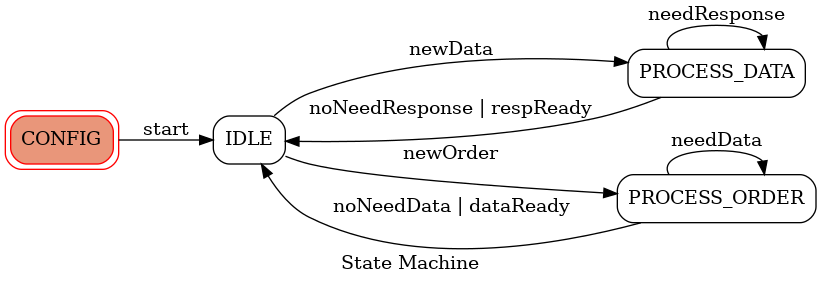
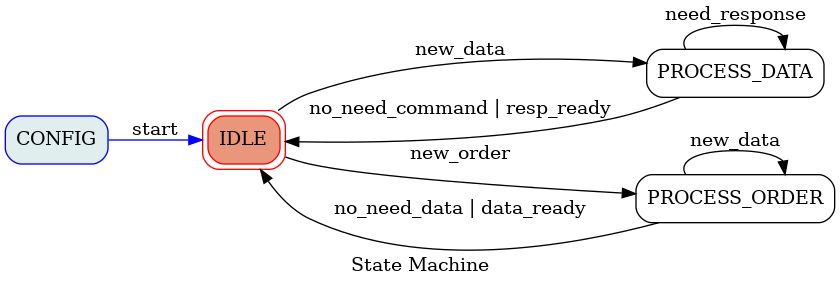
Marcos: changed the transition's structure in control_flow.

diff --git a/gateway/fsm/lsel_mqttclient.py b/gateway/fsm/lsel_mqttclient.py
@@ -1,0 +1,180 @@
+import paho.mqtt.client as mqtt
+import json
+import sys
+import time
+
+
+class mqtt_client(object):
+    """[Class for constructor and broker address and gateway name getters]
+
+    Args:
+        object ([mqttclient]): [object for publisher and subscriber's instantiation]
+    """
+    def __init__(self, broker_addr, gw_name):
+        self.broker_addr=broker_addr
+        self.gw_name=gw_name
+
+    def get_broker_addr(self):
+        return str(self.broker_addr)
+    
+    def get_gw_name(self):
+        return str(self.gw_name)
+    
+
+class mqtt_publisher(mqtt_client):
+    """[mqtt-client sub-class for publishing messages to a specific topic]
+
+    Args:
+        mqtt_publisher ([mqtt_client]): [object that handles message publications]
+    """
+    def __init__(self, broker_addr, gw_name,client_id=None):
+        super().__init__(broker_addr, gw_name)
+        if client_id is None:
+                print("The argument you passed as client_id is not valid. Try again!")
+                exit()
+        else:
+            self.client_id=client_id
+
+        self.client=client= mqtt.Client(client_id=client_id)
+
+    def publish_msg(self, topic_base_id, endpoint_id, msg):
+        """[function that publishes a message to a specific topic
+                eg: /casa/salon/0001-I-A-1
+                    topic_base_id=/casa/salon/0001, data_t=I, endpoint_t=A, endpoint_id=1]
+
+        Args:
+            topic_base_id ([str]): [topic's base identifier]
+            endpoint_id ([str]): [endpoint's identifier]
+            msg ([byte]): [msg's payload to be sent]
+        """
+        def get_publish_topic(topic_base_id,endpoint_id): 
+            """[returns stringed topic from the topic's base identifier and endpoint's identifier]
+
+            Args:
+                topic_base_id ([str]): [topic's base identifier]
+                endpoint_id ([str]): [endpoint's identifier]
+
+            Returns:
+                [str]: [stringed complete topic]
+            """
+            content= topic_base_id + "-I-A-" + endpoint_id
+            return str(content)
+
+        if msg== None:
+                print("The message you passed is not valid. Try again!")
+                exit()        
+        if topic_base_id== None:
+                print("The topic_base_id you passed is not valid. Try again!")
+                exit()
+        if endpoint_id== None:
+                print("The endpoint_id you passed is not valid. Try again!")
+                exit()
+
+        self.client.connect(self.get_broker_addr(), 1883,60)
+        topic=get_publish_topic(topic_base_id, endpoint_id)
+        self.client.publish(topic=topic, payload=msg)
+
+
+class mqtt_subscriber(mqtt_client):
+    """[mqtt-client pub-class for publishing messages to a specific topic]
+
+    Args:
+        mqtt_subscriber ([mqtt_client]): [object that handles message subscriptions]
+    """
+    def __init__(self, broker_addr, gw_name,client_id=None,subscribe_topic=None, on_msg_function=None):
+        super().__init__(broker_addr, gw_name)
+        def on_message_suscriber_default(client, userdata, msg):
+            """[Personalized on_message() callback to suit 
+            the necessities of the LSEL project.]
+
+            Args:
+                client ([Object]): [the client instance for this callback]
+                userdata ([String]): [the private user data as set in 
+                Client() or user_data_set()]
+                msg ([Byte]): [an instance of MQTTMessage. This is a 
+                class with members topic, payload, qos, retain.]
+            """
+            print(str(msg.payload))
+
+        if on_msg_function is None:
+            self.on_msg_function=on_message_suscriber_default
+        else:
+            if callable(on_msg_function):
+                self.on_msg_function=on_msg_function
+            else:
+                print("The argument you passed as on_msg_function is not a function. Try again!")
+                exit()
+        
+        if client_id is None:
+                print("The argument you passed as client_id is not valid. Try again!")
+                exit()
+        else:
+            self.client_id=client_id
+
+        if subscribe_topic is None:
+            self.subscribe_topic=""
+        else:
+            self.subscribe_topic=subscribe_topic
+
+        self.client= mqtt.Client(client_id=client_id)
+        self.client.on_message = self.on_msg_function
+
+    def get_subscribe_topic(self):
+        return str(self.subscribe_topic)
+
+    def get_on_msg_function(self):
+        return self.on_msg_function
+
+    def get_subscribe_all_topic(self):
+        """[function that returns the general stringed topic]
+
+        Returns:
+            [str]: [general stringed topic]
+        """
+        return self.get_subscribe_topic() + "/#"
+    
+
+
+    def sub_all_connect(self):
+        """[function that subscribes to all the hanging topics from the base topic]
+        """
+        self.client.connect(self.get_broker_addr(), 1883,60)
+        self.client.subscribe(topic=self.get_subscribe_all_topic(), qos=0)
+        self.client.loop_forever()
+
+    
+    
+
+# subscriptor1= mqtt_subscriber()
+
+# subscriptor1.client.connect(subscriptor1.get_broker_addr)
+
+# cliente1 = subscriptor1.create_client()
+
+
+# p1=mqtt_publisher(broker_addr="localhost", gw_name="default_gw")
+# p2=mqtt_publisher(broker_addr="localhost", gw_name="default_gw",topic_base_id="/casa/salon/0001")
+# p3=mqtt_publisher(broker_addr="localhost", gw_name="default_gw",topic_base_id="/casa/salon/0001", endpoint_id="0001")
+# p4=mqtt_subscriber(broker_addr="localhost", gw_name="default_gw",subscribe_topic="/casa")
+
+# print("pruebas 1 \n")
+# print("broker host of p1: " + p1.get_broker_addr())
+# print("publish topic of p1: " + p1.get_publish_topic())
+# print("gw name of p1: " + p1.get_gw_name())
+
+# print("pruebas 2 \n")
+# print("broker host of p2: " + p2.get_broker_addr())
+# print("publish topic of p2: " + p2.get_publish_topic())
+# print("gw name of p2: " + p2.get_gw_name())
+
+# print("pruebas 3 \n")
+# print("broker host of p3: " + p3.get_broker_addr())
+# print("publish topic of p3: " + p3.get_publish_topic())
+# print("gw name of p3: " + p3.get_gw_name())
+
+
+# print("pruebas 4 \n")
+# print("broker host of p4: " + p4.get_broker_addr())
+# print("gw name of p4: " + p4.get_gw_name())
+# print("subscribe topic of p4: " + p4.get_subscribe_topic())
+# print("subscribe topic all of p4: " + p4.get_subscribe_all_topic())

diff --git a/gateway/fsm/control_flow.py b/gateway/fsm/control_flow.py
@@ -1,29 +1,45 @@
 from transitions.extensions import GraphMachine as Machine
 
-
-class Controll_flow (object):
+class Control_flow (object):
     states = ['CONFIG','IDLE','PROCESS_DATA','PROCESS_ORDER']
+    transitions=[
+        {'trigger' : 'start', 'source' : 'CONFIG',
+            'dest' : 'IDLE', 'conditions' :['ready_to_work']},
+        {'trigger' : 'new_data', 'source' : 'IDLE',
+            'dest' : 'PROCESS_DATA', 'after':'send_data'},        
+        {'trigger' : 'need_response', 'source' : 'PROCESS_DATA',
+            'dest' : '=', 'after':'wait'},        
+        {'trigger' : 'no_need_command', 'source' : 'PROCESS_DATA',
+            'dest' : 'IDLE'},        
+        {'trigger' : 'resp_ready', 'source' : 'PROCESS_DATA',
+            'dest' : 'IDLE', 'after':'send_order'},             
+        {'trigger' : 'new_order', 'source' : 'IDLE',
+            'dest' : 'PROCESS_ORDER', 'after':'send_order'},                
+        {'trigger' : 'need_data', 'source' : 'PROCESS_ORDER',
+            'dest' : '=', 'after':'wait'},                 
+        {'trigger' : 'no_need_data', 'source' : 'PROCESS_ORDER',
+            'dest' : 'IDLE'},                 
+        {'trigger' : 'data_ready', 'source' : 'PROCESS_ORDER',
+            'dest' : 'IDLE', 'after':'send_data'}
+    ]
     def __init__(self,name):
         if name == "":
             raise ValueError("The name of the control flow must be non empty")
         self.name = name
-
-        self.machine = Machine(model = self, states = Controll_flow.states,
-            initial = 'CONFIG')
-
-        self.machine.add_transition(trigger = 'start', source = 'CONFIG',
-            dest = 'IDLE', conditions =['ready_to_work'])
-        self.machine.add_transition(trigger = 'newData', source = 'IDLE',
-            dest = 'PROCESS_DATA')
-        self.machine.add_transition('needResponse','PROCESS_DATA', '=')
-        self.machine.add_transition('noNeedResponse','PROCESS_DATA', 'IDLE')
-        self.machine.add_transition('respReady','PROCESS_DATA','IDLE')
-        self.machine.add_transition('newOrder','IDLE','PROCESS_ORDER')
-        self.machine.add_transition('needData','PROCESS_ORDER','=')
-        self.machine.add_transition('noNeedData','PROCESS_ORDER', 'IDLE')
-        self.machine.add_transition('dataReady','PROCESS_ORDER','IDLE')
+        self.machine = Machine(model = self, states = Control_flow.states,
+            initial = 'CONFIG', transitions=Control_flow.transitions)
 
     def ready_to_work(self):
         return True
-fsm = Controll_flow("GW")
-fsm.machine.get_graph().draw('control_fsm.png',prog='dot')
+    
+    def print_antes(self):
+        print("tuputamadre antes")
+        print(fsm.state)
+    def print_despues(self):
+        print("tuputamadre despues")
+        print(fsm.state)
+
+fsm = Control_flow("GW")
+# fsm.start()
+# print(fsm.state)
+# fsm.machine.get_graph().draw('control_fsm.png',prog='dot')

diff --git a/gateway/fsm/test_transitions.py b/gateway/fsm/test_transitions.py
@@ -1,4 +1,4 @@
-from control_flow import Controll_flow
+from control_flow import Control_flow
 import pytest
 
 @pytest.fixture
@@ -15,40 +15,40 @@ def test_to_idle(initial_fsm):
 
 def test_new_data(initial_fsm):
     initial_fsm.to_IDLE()
-    initial_fsm.newData()
+    initial_fsm.new_data()
     assert initial_fsm.state == "PROCESS_DATA"
 
 def test_needResponse(initial_fsm):
     initial_fsm.to_PROCESS_DATA()
-    initial_fsm.needResponse()
+    initial_fsm.need_response()
     assert initial_fsm.state == "PROCESS_DATA"
 
 def test_no_need_response(initial_fsm):
     initial_fsm.to_PROCESS_DATA()
-    initial_fsm.noNeedResponse()
+    initial_fsm.no_need_command()
     assert initial_fsm.state == "IDLE"
 
 def test_resp_ready(initial_fsm):
     initial_fsm.to_PROCESS_DATA()
-    initial_fsm.respReady()
+    initial_fsm.resp_ready()
     assert initial_fsm.state == "IDLE"
 
 def test_new_order(initial_fsm):
     initial_fsm.to_IDLE()
-    initial_fsm.newOrder()
+    initial_fsm.new_order()
     assert initial_fsm.state == "PROCESS_ORDER"
 
 def test_needData(initial_fsm):
     initial_fsm.to_PROCESS_ORDER()
-    initial_fsm.needData()
+    initial_fsm.need_data()
     assert initial_fsm.state == "PROCESS_ORDER"
 
 def test_no_need_data(initial_fsm):
     initial_fsm.to_PROCESS_ORDER()
-    initial_fsm.noNeedData()
+    initial_fsm.no_need_data()
     assert initial_fsm.state == "IDLE"
 
 def test_data_ready(initial_fsm):
     initial_fsm.to_PROCESS_ORDER()
-    initial_fsm.dataReady()
+    initial_fsm.data_ready()
     assert initial_fsm.state == "IDLE"

diff --git a/gateway/fsm/test_uut.py b/gateway/fsm/test_uut.py
@@ -1,12 +1,12 @@
 import unittest
-from control_flow import Controll_flow
+from control_flow import Control_flow
 
 class Test_control_flow_transitions(unittest.TestCase):
     @classmethod
     def setUpClass(cls):
         """generates a fsm object before each test is launched
         """
-        cls._fsm =  Controll_flow("GW")
+        cls._fsm =  Control_flow("GW")
 
     def test_void_name(self):
         """checks the non void name parameter
